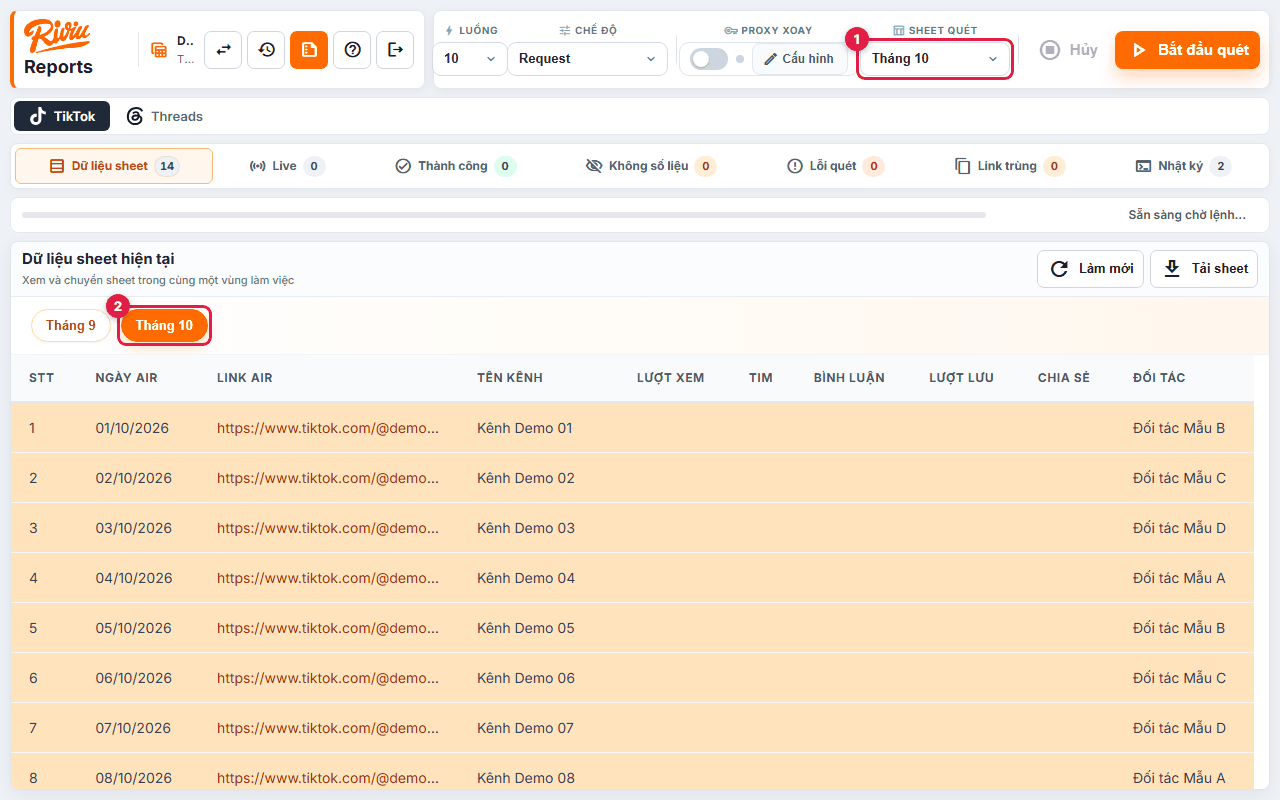
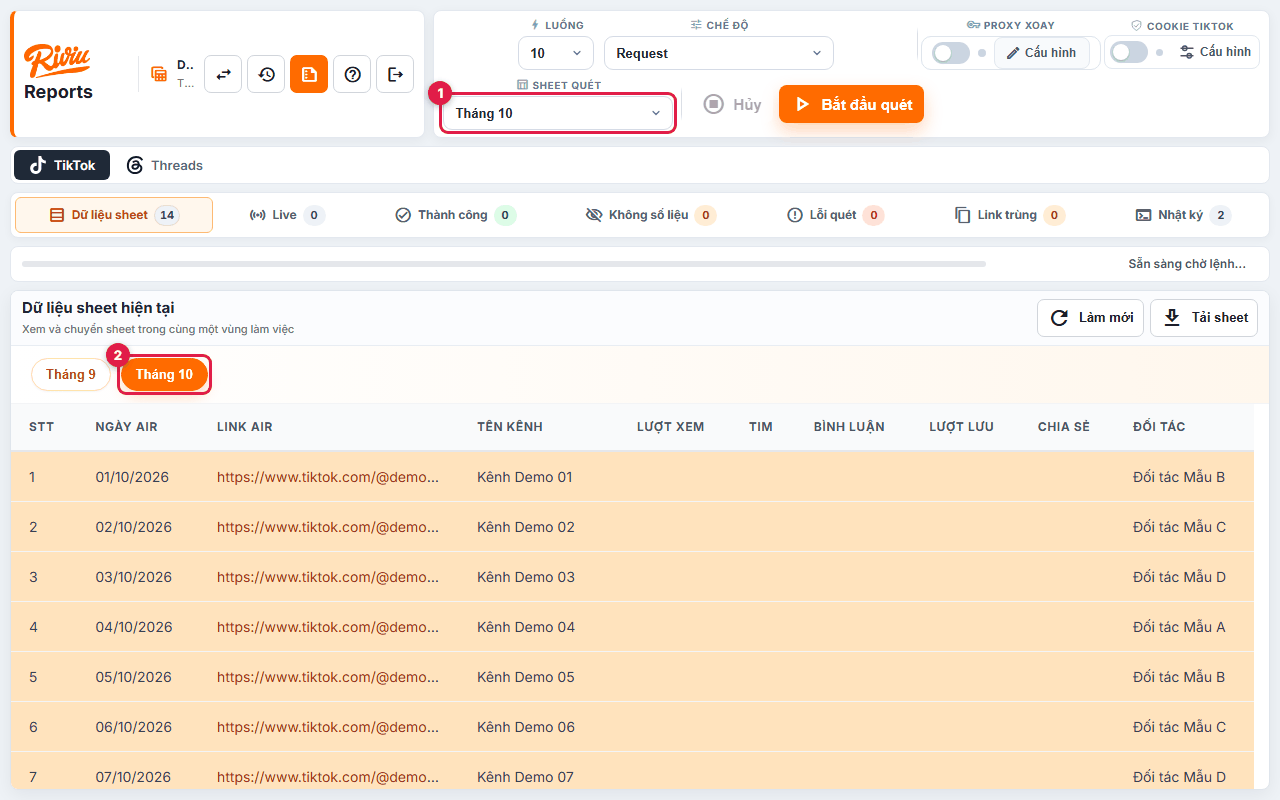
docs: service-account how-to, Cookie TikTok guide step, oEmbed known issue
Adds docs/google-service-account.md with the Cloud console steps and the
org-policy note, recommends the service account in the usage guide with
OAuth as the alternative, adds the Cookie TikTok step and warning, and
regenerates the screenshots with a fake key and fake cookies, offline.
Notes in gone.py that the oEmbed gone signal is currently uninformative
(it never confirms, so old values are kept) with a TODO.

diff --git a/riviu/web/templates/guide.html b/riviu/web/templates/guide.html
@@ -15,7 +15,7 @@
     <li class="guide-step">
         <h3>Nạp Google Sheet hoặc file Excel</h3>
         <p>Dán link vào ô <b>Link Google Sheet TikTok</b> <span class="guide-num">1</span> rồi bấm <b>Nạp sheet</b> <span class="guide-num">2</span>: ứng dụng tải sheet về thành một file mới. Hoặc bấm vùng <b>Nạp file Excel</b> <span class="guide-num">3</span> để tải lên file .xlsx. File đã nạp trước đó chọn lại ở <b>File hiện có</b>.</p>
-        <p>Sheet chia sẻ “Bất kỳ ai có đường liên kết” nạp được mà không cần đăng nhập Google. Sheet riêng tư cần đăng nhập Google trước (bước 11).</p>
+        <p>Sheet chia sẻ “Bất kỳ ai có đường liên kết” nạp được mà không cần đăng nhập Google. Sheet riêng tư cần tài khoản dịch vụ được chia sẻ sheet, hoặc đăng nhập Google (bước 12).</p>
         <img src="/static/guide/03-nap-nguon.png" alt="Bảng Nguồn dữ liệu" loading="lazy" width="1280" height="800">
     </li>
     <li class="guide-step">
@@ -26,8 +26,15 @@
     <li class="guide-step">
         <h3>Chọn chế độ quét và proxy</h3>
         <p>Ô <b>Chế độ</b> <span class="guide-num">1</span>: <b>Request</b> nhanh và nhẹ, nên dùng mặc định. <b>Trình duyệt</b> mở Chromium cho từng link, chậm hơn nhưng đọc được trang mà Request không đọc được. <b>Hybrid (Request + trình duyệt)</b> chạy Request trước rồi chỉ đưa link lỗi sang trình duyệt.</p>
-        <p><b>Luồng</b> <span class="guide-num">2</span> là số link quét song song. Khi bị chặn hoặc giới hạn IP, bật <b>Proxy xoay</b> <span class="guide-num">3</span> và bấm <b>Cấu hình</b> để dán và test proxy.</p>
-        <img src="/static/guide/05-che-do-quet.png" alt="Chế độ, Luồng và Proxy xoay" loading="lazy" width="1280" height="800">
+        <p><b>Luồng</b> <span class="guide-num">2</span> là số link quét song song. Khi bị chặn hoặc giới hạn IP, bật <b>Proxy xoay</b> <span class="guide-num">3</span> và bấm <b>Cấu hình</b> để dán và test proxy. <b>Cookie TikTok</b> <span class="guide-num">4</span> là tùy chọn, xem bước 6.</p>
+        <img src="/static/guide/05-che-do-quet.png" alt="Chế độ, Luồng, Proxy xoay và Cookie TikTok" loading="lazy" width="1280" height="800">
+    </li>
+    <li class="guide-step">
+        <h3>Cookie TikTok (tùy chọn)</h3>
+        <p>Một số bài (thường là bài ảnh) báo “Video không khả dụng” với người xem chưa đăng nhập nhưng vẫn xem được khi đăng nhập; khi quét chúng hiện lỗi “TikTok báo không tìm thấy bài (chưa xác nhận, giữ số cũ)”. Cookie TikTok cho phép quét các bài này bằng phiên đăng nhập.</p>
+        <p><b>Dùng tài khoản TikTok phụ</b> <span class="guide-num">1</span>, không dùng tài khoản chính: quét bằng cookie tài khoản có thể khiến TikTok giới hạn hoặc yêu cầu xác minh tài khoản đó.</p>
+        <p>Cài tiện ích Cookie-Editor, đăng nhập tài khoản phụ ở tiktok.com, chọn <b>Export → JSON</b>. Trong <b>Cookie TikTok</b> → <b>Cấu hình</b>, chọn <b>Chọn file JSON</b> hoặc <b>Dán JSON</b> <span class="guide-num">2</span> rồi bấm <b>Import &amp; kiểm tra</b> <span class="guide-num">3</span>: ứng dụng kiểm tra đăng nhập bằng một yêu cầu nhỏ rồi mới lưu cookie vào kho bảo mật. Bật công tắc cạnh <b>Cấu hình</b> để dùng cookie cho lần quét đó; tắt công tắc thì quét như bình thường. Cookie đi cùng tuyến proxy/direct đang chọn và không bao giờ ghi vào nhật ký hay file kết quả.</p>
+        <img src="/static/guide/05b-cookie-tiktok.png" alt="Hộp thoại Cookie TikTok" loading="lazy" width="1280" height="800">
     </li>
     <li class="guide-step">
         <h3>Bắt đầu quét và theo dõi</h3>
@@ -59,14 +66,16 @@
     </li>
     <li class="guide-step">
         <h3>Đẩy kết quả lên Google Sheet</h3>
-        <p>Cần đăng nhập Google, admin làm một lần: trong bảng <b>Nguồn dữ liệu</b>, bấm <b>Nạp OAuth</b> <span class="guide-num">1</span> để tải file OAuth client (loại Desktop app), rồi bấm nút trạng thái Google bên cạnh <span class="guide-num">2</span>&nbsp;(ghi <b>Chưa đăng nhập</b>) để đăng nhập. Nút <b>Nạp OAuth</b> ẩn đi sau khi đã nạp. Sau đó chọn <b>Sheet</b> và bấm <b>Tạo sheet</b> <span class="guide-num">3</span>: kết quả được ghi vào một tab mới trong Google Sheet ở ô link. Ghi lên Google Sheet luôn cần đăng nhập, kể cả sheet chia sẻ công khai.</p>
-        <img src="/static/guide/11-google.png" alt="Nạp OAuth, Đăng nhập Google, Tạo sheet" loading="lazy" width="1280" height="800">
-        <p>Nút đăng nhập mở hộp thoại <b>Đăng nhập Google</b>: bấm <b>Mở trang đăng nhập Google</b> <span class="guide-num">1</span> và cho phép quyền. Trình duyệt chuyển tới địa chỉ <code>http://localhost:…</code> và báo không tải được trang, đó là bình thường. Sao chép toàn bộ địa chỉ đó, dán vào ô <span class="guide-num">2</span> rồi bấm <b>Xác nhận</b> <span class="guide-num">3</span>. Bản desktop tự mở trình duyệt và không cần dán.</p>
+        <p>Ghi lên Google Sheet luôn cần một tài khoản Google, kể cả sheet chia sẻ công khai. Cách <b>khuyên dùng</b> là <b>tài khoản dịch vụ</b> (tài khoản robot của Google Cloud), admin làm một lần: tạo theo <code>docs/google-service-account.md</code>, rồi trong bảng <b>Nguồn dữ liệu</b> bấm <b>Nạp tài khoản dịch vụ</b> <span class="guide-num">1</span> và chọn file JSON. Cách thay thế là đăng nhập Google cá nhân bằng <b>Nạp OAuth</b> <span class="guide-num">2</span> và nút trạng thái Google <span class="guide-num">3</span> (xem cuối bước này).</p>
+        <img src="/static/guide/11-google.png" alt="Nạp tài khoản dịch vụ, Nạp OAuth, Đăng nhập Google" loading="lazy" width="1280" height="800">
+        <p>Sau khi nạp, ô xanh hiện email tài khoản dịch vụ <span class="guide-num">1</span>. Bấm <b>Copy</b> <span class="guide-num">2</span>, mở Google Sheet → <b>Chia sẻ</b>, dán email đó với quyền <b>Người chỉnh sửa</b>. Làm vậy cho mỗi sheet cần nạp hoặc tạo sheet kết quả; quên chia sẻ thì ứng dụng báo lỗi kèm email cần chia sẻ. Sau đó chọn <b>Sheet</b> và bấm <b>Tạo sheet</b> <span class="guide-num">3</span>: kết quả được ghi vào một tab mới trong Google Sheet ở ô link. <b>Gỡ tài khoản dịch vụ</b> để quay lại dùng đăng nhập Google.</p>
+        <img src="/static/guide/11b-tai-khoan-dich-vu.png" alt="Email tài khoản dịch vụ, nút Copy và Tạo sheet" loading="lazy" width="1280" height="800">
+        <p><b>Cách thay thế, đăng nhập Google:</b> bấm <b>Nạp OAuth</b> để tải file OAuth client (loại Desktop app); nút này ẩn đi sau khi đã nạp. Bấm nút trạng thái Google (ghi <b>Chưa đăng nhập</b>) để mở hộp thoại <b>Đăng nhập Google</b>: bấm <b>Mở trang đăng nhập Google</b> <span class="guide-num">1</span> và cho phép quyền. Trình duyệt chuyển tới địa chỉ <code>http://localhost:…</code> và báo không tải được trang, đó là bình thường. Sao chép toàn bộ địa chỉ đó, dán vào ô <span class="guide-num">2</span> rồi bấm <b>Xác nhận</b> <span class="guide-num">3</span>. Bản desktop tự mở trình duyệt và không cần dán.</p>
         <img src="/static/guide/12-google-dan-link.png" alt="Hộp thoại dán địa chỉ localhost" loading="lazy" width="1280" height="800">
     </li>
     <li class="guide-step">
         <h3>Threads</h3>
-        <p>Bấm <b>Threads</b> trên thanh nền tảng <span class="guide-num">1</span>. Threads có nguồn riêng (file, sheet, link), nên làm lại các bước 2–8 cho Threads; mặc định chế độ là <b>Hybrid</b>, cột LƯỢT LƯU được thay bằng REPOST. Tùy chọn: <b>Cookie Threads</b> <span class="guide-num">2</span> dùng phiên đăng nhập Threads khi quét.</p>
+        <p>Bấm <b>Threads</b> trên thanh nền tảng <span class="guide-num">1</span>. Threads có nguồn riêng (file, sheet, link), nên làm lại các bước 2–5 và 7–9 cho Threads; mặc định chế độ là <b>Hybrid</b>, cột LƯỢT LƯU được thay bằng REPOST. Tùy chọn: <b>Cookie Threads</b> <span class="guide-num">2</span> dùng phiên đăng nhập Threads khi quét.</p>
         <img src="/static/guide/13-threads.png" alt="Nền tảng Threads" loading="lazy" width="1280" height="800">
         <p>Để nhập cookie: cài tiện ích Cookie-Editor, mở threads.com, chọn <b>Export → JSON</b>. Trong <b>Cookie Threads</b> → <b>Cấu hình</b>, chọn <b>Chọn file JSON</b> hoặc <b>Dán JSON</b> <span class="guide-num">1</span> rồi bấm <b>Import &amp; kiểm tra</b> <span class="guide-num">2</span>. Bật công tắc cạnh <b>Cấu hình</b> để dùng cookie khi quét.</p>
         <img src="/static/guide/14-cookie-threads.png" alt="Hộp thoại Cookie Threads" loading="lazy" width="1280" height="800">
@@ -83,5 +92,6 @@
         <li>Mỗi lúc chỉ chạy được một phiên quét cho cả nhóm. Nếu người khác đang quét, hãy chờ phiên đó xong.</li>
         <li>Ô trống nghĩa là chưa biết số liệu, không phải 0. Các dòng tổng chỉ cộng những số đã biết.</li>
         <li>Không đóng tab trong lúc đang xuất báo cáo hoặc tải file.</li>
+        <li>Cookie TikTok: chỉ dùng tài khoản TikTok phụ. Quét bằng cookie tài khoản có thể khiến TikTok giới hạn hoặc yêu cầu xác minh tài khoản đó.</li>
     </ul>
 </section>

diff --git a/tools/make_guide_screenshots.py b/tools/make_guide_screenshots.py
@@ -35,6 +35,19 @@ LINK_COUNT = 14
 FAILING_LINK = 3      # shows up under "Lỗi quét"
 NO_STATS_LINK = 6     # shows up under "Không số liệu"
 FAKE_FETCH_SECONDS = 1.0
+# FAKE credentials only: made-up values that are not keys or sessions of any account.
+FAKE_SERVICE_ACCOUNT = {
+    "type": "service_account", "project_id": "demo-project", "private_key_id": "demo",
+    "private_key": "-----BEGIN PRIVATE KEY-----\nFAKE-KEY-FOR-SCREENSHOTS\n-----END PRIVATE KEY-----\n",
+    "client_email": "riviu-reports@demo-project.iam.gserviceaccount.com", "client_id": "000000000000000000000",
+    "token_uri": "https://oauth2.googleapis.com/token",
+}
+FAKE_TIKTOK_COOKIES = [
+    {"domain": ".tiktok.com", "name": "sessionid", "value": "fake-session-for-screenshots", "path": "/",
+     "secure": True, "httpOnly": True, "hostOnly": False, "sameSite": "no_restriction"},
+    {"domain": ".tiktok.com", "name": "tt_csrf_token", "value": "fake-csrf", "path": "/",
+     "secure": True, "httpOnly": False, "hostOnly": False, "sameSite": "lax"},
+]
 
 
 def block_python_network():
@@ -81,6 +94,14 @@ def write_workbooks(data_dir):
         sheet.append([f"{number:02d}/10/2026", f"https://www.threads.com/@demo/post/DEMO{number:04d}", f"demo_{number:02d}",
                       None, None, None, None, None, PARTNERS[number % len(PARTNERS)]])
     threads.save(data_dir / THREADS_FILE)
+
+
+def store_fake_tiktok_cookies(data_dir, key):
+    """Saved straight into the encrypted vault: importing would verify against TikTok."""
+    from riviu.platforms.threads_session import EncryptedFileStore
+    from riviu.platforms.tiktok_session import TIKTOK_STORE, normalize_tiktok_cookies
+
+    EncryptedFileStore(data_dir, key, spec=TIKTOK_STORE).save(normalize_tiktok_cookies(FAKE_TIKTOK_COOKIES))
 
 
 def install_fake_tiktok_fetch():
@@ -219,7 +240,15 @@ def run(base_url, data_dir):
         # 5. Mode, workers and proxy.
         page.select_option("#scrapeModeSelect", "request")
         page.select_option("#workerCountSelect", "1")
-        shooter.shot("05-che-do-quet", "#scrapeModeSelect", "#workerCountSelect", "#proxyCard")
+        shooter.shot("05-che-do-quet", "#scrapeModeSelect", "#workerCountSelect", "#proxyCard", "#tiktokCookieCard")
+
+        # 5b. Cookie TikTok (fake saved cookies; the switch stays off for the scan below).
+        page.click("#tiktokCookieBtn")
+        page.wait_for_selector("#tiktokCookieModal.active")
+        settle(800)
+        shooter.shot("05b-cookie-tiktok", "#tiktokCookieWarning", "#tiktokCookieModal .threads-cookie-tabs", "#tiktokCookieImport")
+        page.evaluate("closeTikTokCookieModal()")
+        settle()
 
         # 6-7. A scan through the real runner and WebSocket, with the fake fetch.
         page.click("#startBtn")
@@ -260,12 +289,19 @@ def run(base_url, data_dir):
         page.keyboard.press("Escape")
         settle()
 
-        # 11. Google: OAuth upload, login status, push button (no OAuth client yet).
+        # 11. Google: service-account upload (recommended), OAuth upload and login status.
         page.click("#sourceDrawerButton")
         settle()
-        shooter.shot("11-google", "#googleOauthBtn", "#googleLoginBtn", "#pushGoogleBtn")
-        # A synthetic Desktop OAuth client enables the login button; the consent URL is built locally.
+        shooter.shot("11-google", "#googleServiceAccountBtn", "#googleOauthBtn", "#googleLoginBtn")
         from riviu import google_sheets_sync
+
+        # A FAKE service-account key (encrypted at rest, as in server mode); nothing calls Google.
+        google_sheets_sync.save_service_account(str(data_dir), FAKE_SERVICE_ACCOUNT)
+        page.evaluate("refreshGoogleOauthStatus()")
+        page.wait_for_selector("#googleServiceAccountBox:not([hidden])")
+        settle(500)
+        shooter.shot("11b-tai-khoan-dich-vu", "#googleServiceAccountEmail", "#googleServiceAccountCopy", "#pushGoogleBtn")
+        # A synthetic Desktop OAuth client enables the login button; the consent URL is built locally.
 
         google_sheets_sync.save_oauth_client(str(data_dir), {"installed": {
             "client_id": "demo.apps.googleusercontent.com", "client_secret": "demo",
@@ -311,7 +347,8 @@ def main():
     data_dir = workdir / "data-root"
     (data_dir / "data").mkdir(parents=True)
     key_file = workdir / "secret.key"
-    key_file.write_text(base64.b64encode(os.urandom(32)).decode())
+    secret_key = os.urandom(32)
+    key_file.write_text(base64.b64encode(secret_key).decode())
     if os.name == "posix":
         key_file.chmod(0o600)
     with socket.socket() as probe:
@@ -330,6 +367,7 @@ def main():
     })
     block_python_network()
     write_workbooks(data_dir / "data")
+    store_fake_tiktok_cookies(data_dir, secret_key)
     install_fake_tiktok_fetch()
     OUTPUT_DIR.mkdir(parents=True, exist_ok=True)
     server, thread = start_server(port)

diff --git a/riviu/platforms/tiktok/gone.py b/riviu/platforms/tiktok/gone.py
@@ -32,6 +32,14 @@ def confirm_tiktok_post_gone(url, resolved_url="", timeout=OEMBED_TIMEOUT_SECOND
     fetches of live posts, while oEmbed answered 200 for every live post (photo
     posts included) and 400 for every deleted or nonexistent id.
     Returns True (gone), False (live) or None (no answer).
+
+    Known issue (live check 2026-10-19): oEmbed now answers 200 with an empty
+    author_name/title for live posts, deleted posts and a made-up id alike, so this
+    signal is currently uninformative and never returns True. That is the safe side:
+    an unconfirmed "not found" keeps the old numbers (should_clear_stale_metrics is
+    unchanged). TODO: find a gone signal that still separates deleted posts from live
+    ones (with fixtures from a live sample) before relying on clearing again; do not
+    treat an empty 200 as "gone".
     """
     target = tiktok_oembed_target(url, resolved_url)
     if not target:

diff --git a/docs/google-service-account.md b/docs/google-service-account.md
@@ -1,0 +1,59 @@
+# Tài khoản dịch vụ Google (service account)
+
+Tài khoản dịch vụ là một tài khoản "robot" của Google Cloud, có email dạng
+`riviu-reports@<project>.iam.gserviceaccount.com`. Nó đọc và ghi được mọi Google Sheet
+được chia sẻ cho email đó với quyền **Người chỉnh sửa**, nên server dùng chung không phụ
+thuộc vào tài khoản Google cá nhân của ai. Đây là cách **khuyên dùng**; đăng nhập Google
+(OAuth) vẫn là cách thay thế.
+
+Khi đã nạp tài khoản dịch vụ, ứng dụng dùng nó cho **Nạp sheet** (sheet riêng tư), tải
+sheet và **Tạo sheet** (đẩy kết quả), ưu tiên hơn đăng nhập Google. Gỡ tài khoản dịch vụ thì
+mọi thứ quay lại dùng đăng nhập Google như trước. Ứng dụng chỉ gọi Google Sheets API, với
+quyền `https://www.googleapis.com/auth/spreadsheets`; không cần Google Drive API.
+
+## Tạo tài khoản dịch vụ (admin, làm một lần)
+
+1. Mở <https://console.cloud.google.com> và chọn **đúng project đang chứa OAuth client**
+   hiện tại của ứng dụng (ô chọn project ở thanh trên cùng).
+2. **APIs & Services → Library** → tìm **Google Sheets API** → **Enable** (nếu đã bật thì bỏ qua).
+3. **IAM & Admin → Service Accounts → + Create service account**.
+   - **Service account name**: ví dụ `riviu-reports` → **Create and continue**.
+   - Bước **Grant this service account access to project**: bỏ qua, không chọn role → **Continue**.
+   - Bước **Grant users access**: bỏ qua → **Done**.
+4. Bấm vào tài khoản vừa tạo → tab **Keys** → **Add key → Create new key** → chọn **JSON** →
+   **Create**. Trình duyệt tải về một file `.json`. File này là khoá bí mật: không gửi qua
+   chat, không đưa lên Git; giữ một bản ở nơi an toàn hoặc xoá sau khi nạp.
+
+## Nạp vào ứng dụng
+
+1. Mở bảng **Nguồn dữ liệu** → bấm **Nạp tài khoản dịch vụ** → chọn file `.json` vừa tải.
+2. Ô xanh hiện email tài khoản dịch vụ, nút **Copy** và dòng
+   "Chia sẻ Google Sheet cho email này với quyền Người chỉnh sửa".
+3. Với **mỗi** Google Sheet cần nạp hoặc tạo sheet kết quả: mở sheet → **Chia sẻ (Share)** →
+   dán email tài khoản dịch vụ → chọn **Người chỉnh sửa (Editor)** → bỏ chọn "Thông báo" nếu
+   muốn → **Gửi**. Có thể chia sẻ cả một thư mục Drive để các sheet bên trong dùng được luôn.
+4. Nếu quên chia sẻ, Google trả lỗi 403/404 và ứng dụng báo
+   "Tài khoản dịch vụ … chưa có quyền với Google Sheet này … Chia sẻ Google Sheet cho email …
+   với quyền Người chỉnh sửa".
+
+Gỡ: bấm **Gỡ tài khoản dịch vụ** trong ô xanh. Muốn vô hiệu hoá hẳn khoá cũ, xoá key đó ở
+tab **Keys** trên Google Cloud.
+
+## Lưu trữ
+
+- File được kiểm tra trước khi lưu: phải có `"type": "service_account"`, `client_email` và
+  `private_key`; `token_uri` (nếu có) phải là địa chỉ `googleapis.com`. Chỉ giữ các trường cần thiết.
+- Lưu ở `data/google_service_account.json` trong thư mục dữ liệu (ghi atomic).
+  Bản desktop lưu giống file OAuth client. **Chế độ server** mã hoá AES-256-GCM bằng khoá
+  `RIVIU_SECRET_KEY_FILE` (cùng khoá với kho cookie), gắn với thư mục dữ liệu, nên file không
+  chứa khoá hay email ở dạng rõ. Khoá không bao giờ được ghi vào log hay trả về API;
+  `/google-oauth-status` chỉ trả email và trường `activeCredential`
+  (`service_account`, `oauth` hoặc `none`).
+
+## Khi không tạo được key
+
+Nếu Google báo không cho tạo key (thường là tổ chức Google Workspace bật chính sách
+**`iam.disableServiceAccountKeyCreation`**), cần **admin của tổ chức** cho phép tạo key cho
+project này (IAM & Admin → Organization Policies → *Disable service account key creation* →
+tắt hoặc thêm ngoại lệ cho project), hoặc tạo tài khoản dịch vụ trong một **project Google Cloud
+cá nhân** (không thuộc tổ chức) rồi chia sẻ sheet cho email đó như trên.

diff --git a/docs/server-mode.md b/docs/server-mode.md
@@ -30,6 +30,11 @@ từ `RIVIU_FORWARDED_ALLOW_IPS` (mặc định `127.0.0.1`; trong Docker là ga
 - **Cookie Threads**: không có DPAPI/keyring trên server headless, nên lưu ở `data/threads_session.aesgcm`,
   mã hoá AES-256-GCM bằng khoá `RIVIU_SECRET_KEY_FILE` (thư mục dữ liệu gắn vào dữ liệu liên kết). Không bao giờ ghi bản rõ,
   không ghi cookie vào log.
+- **Cookie TikTok** (tuỳ chọn, mặc định tắt): lưu ở `data/tiktok_session.aesgcm`, cùng khoá và cùng quy tắc
+  như cookie Threads (bản desktop dùng DPAPI/keyring). Chỉ gửi kèm khi bật công tắc **Cookie TikTok** cho phiên quét.
+- **Tài khoản dịch vụ Google** (khuyên dùng trên server): `data/google_service_account.json` được mã hoá
+  AES-256-GCM bằng khoá `RIVIU_SECRET_KEY_FILE`; khi có, nó được dùng thay cho đăng nhập Google.
+  Cách tạo: `docs/google-service-account.md`.
 - **Đăng nhập Google**: server không mở được trình duyệt. `/google-oauth-login` trả URL đồng ý của Google
   (redirect `http://localhost:<cổng ngẫu nhiên>/`, PKCE S256). Người dùng duyệt trên máy mình, dán lại địa chỉ
   localhost (không tải được) vào hộp thoại; `/google-oauth-complete` kiểm tra `state`, đổi mã bằng code verifier
